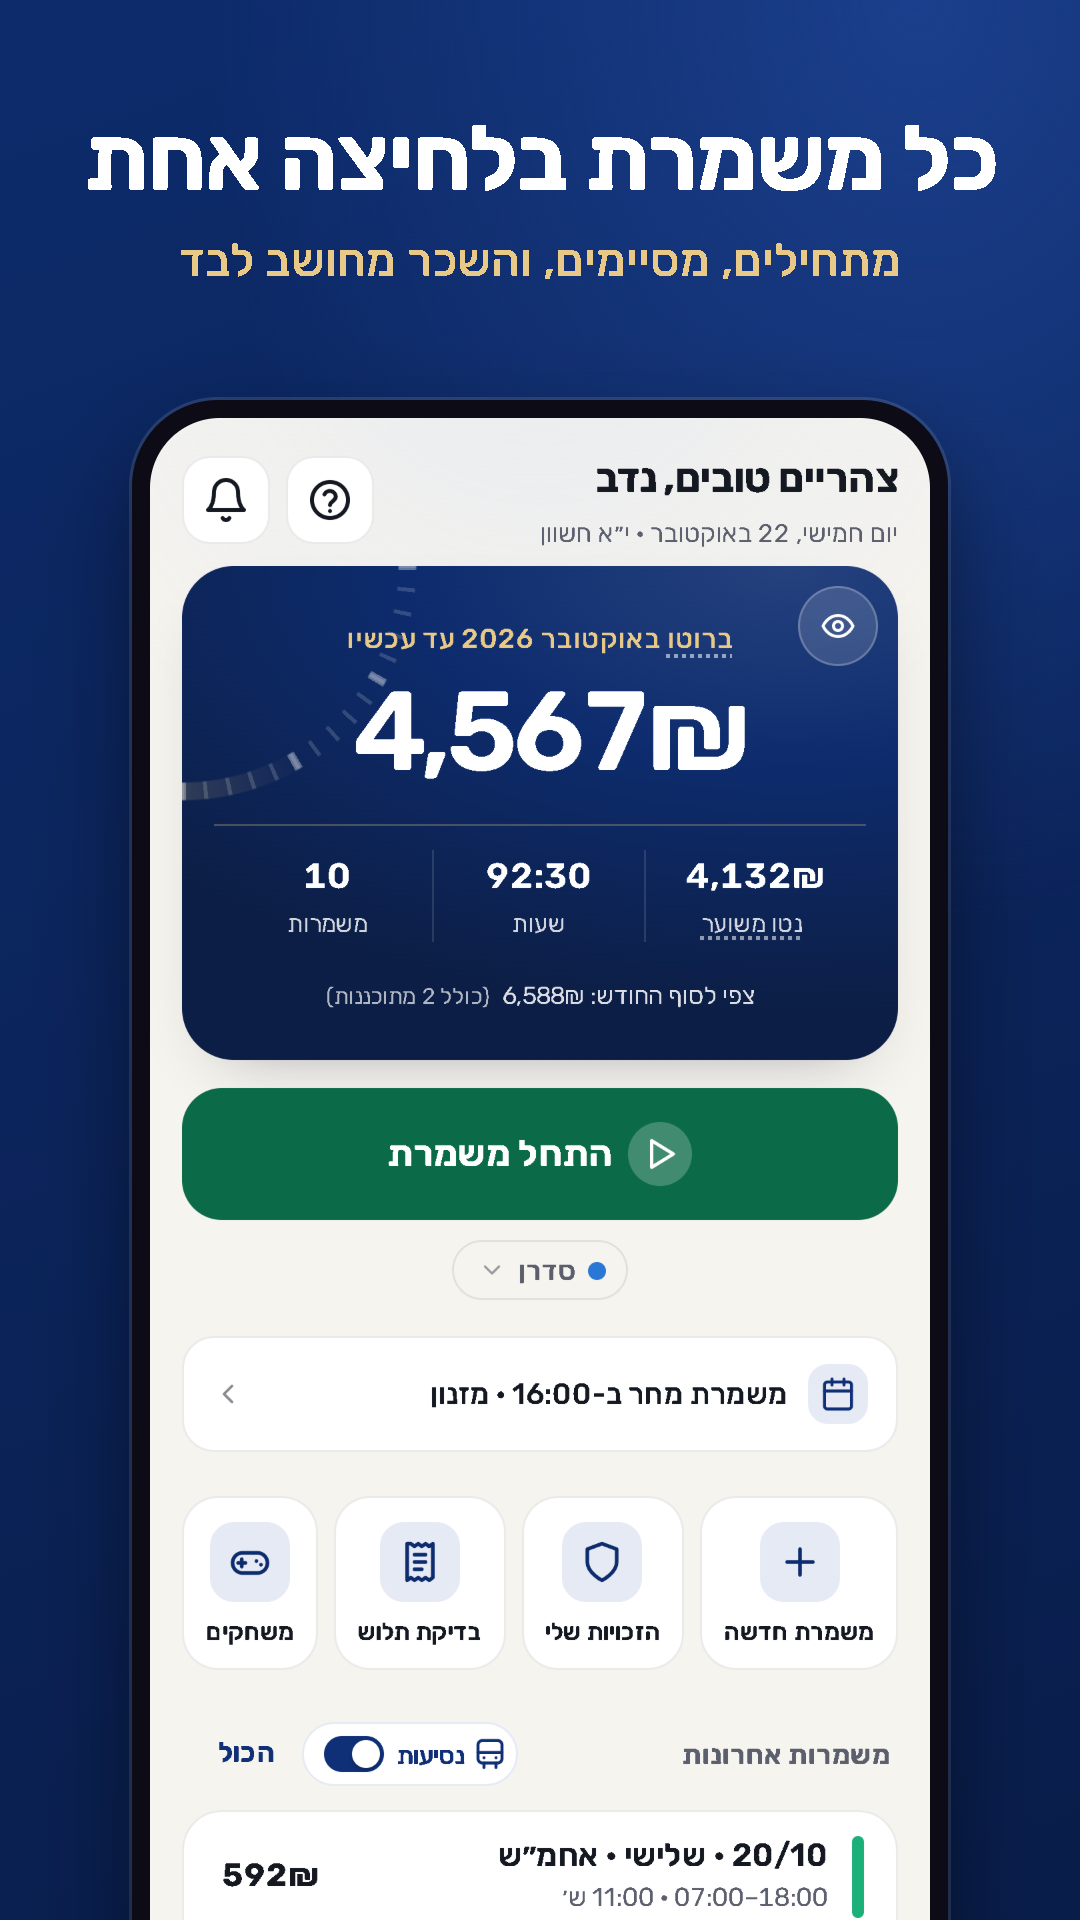
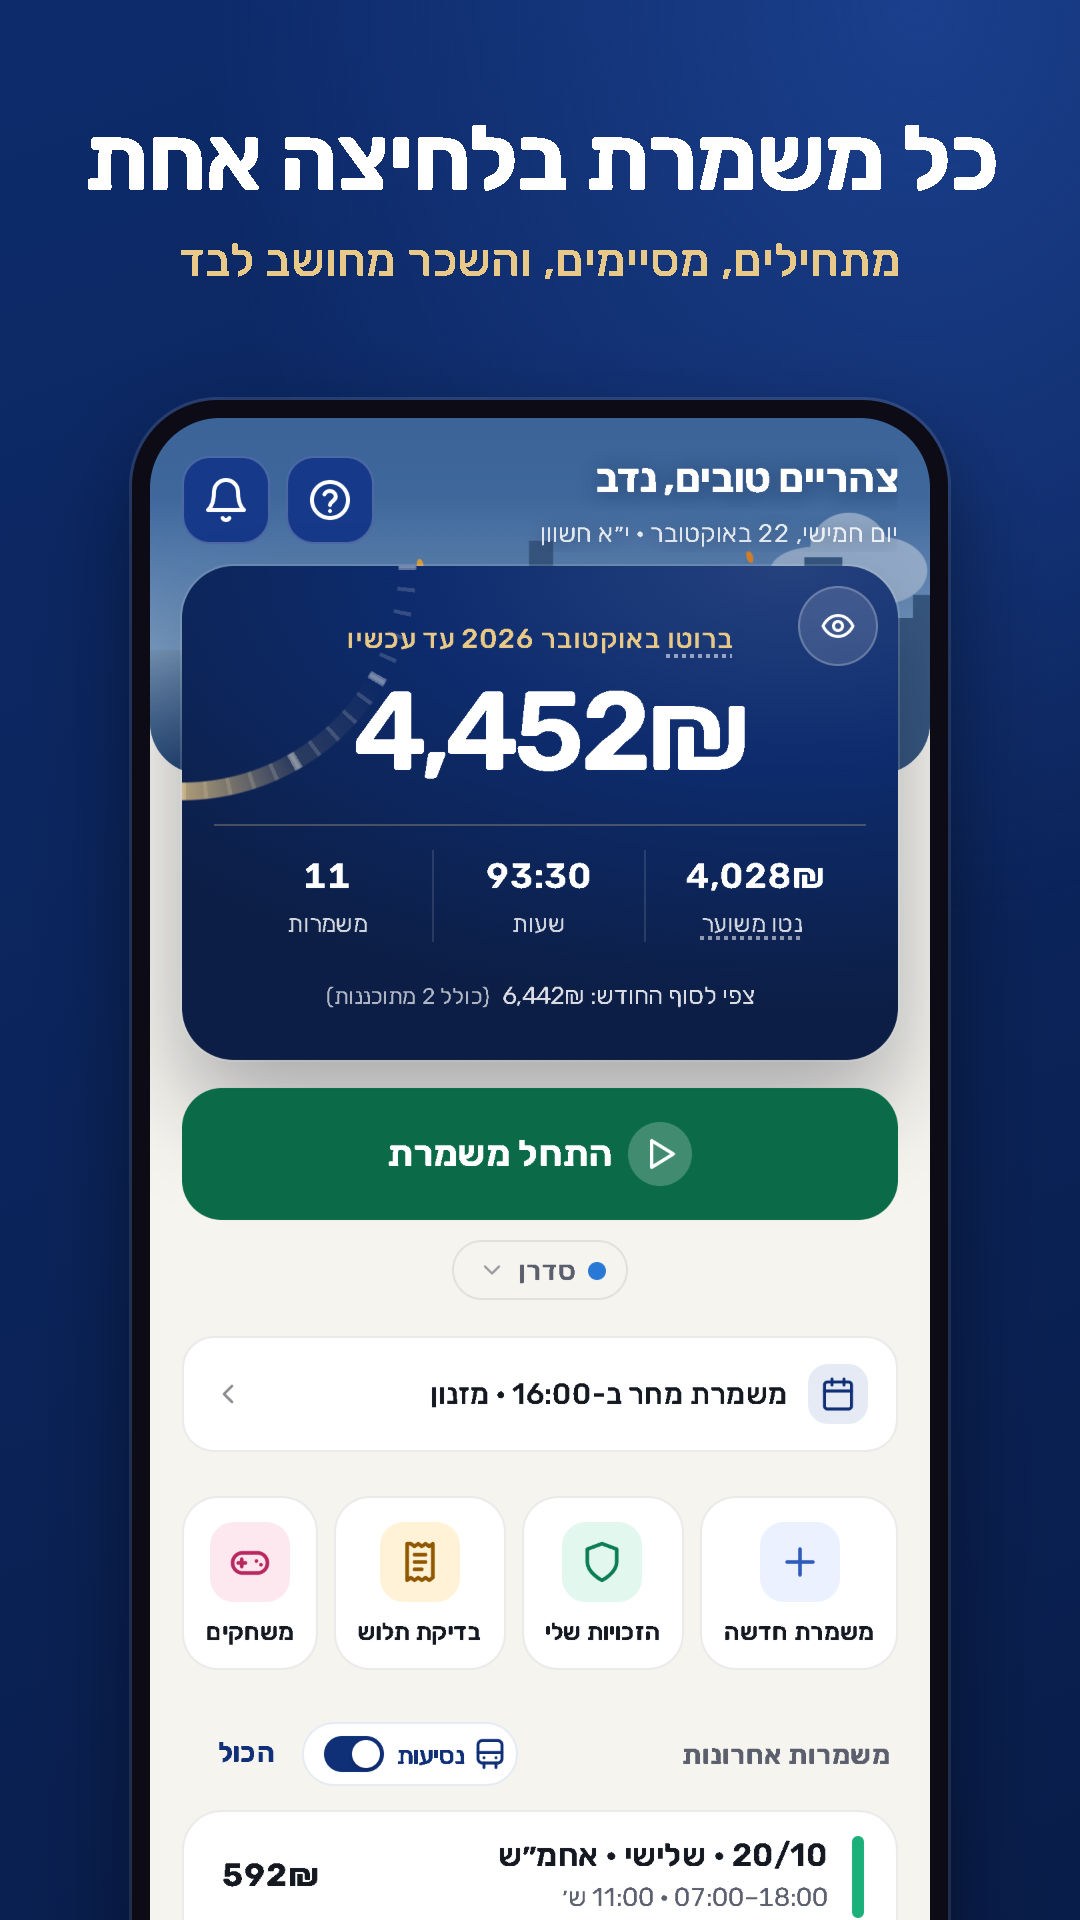
The status bar follows what is under it: the home screen's sky while it is in view (its top colour), the page once scrolled past it or on another tab (a beige bar sat above the night sky); dark-mode bar #0e1118 (the v4 surface); the manifest's theme colour navy (it was the old petrol); qa/statusbar-

diff --git a/src/app/app.js b/src/app/app.js
@@ -89,11 +89,19 @@
       if (font === 'rubik') link.removeAttribute('href'); else link.href = App.fontCss(font);
       link.dataset.font = font;
     }
-    const dark = st.theme === 'dark' || (st.theme !== 'light' && matchMedia('(prefers-color-scheme: dark)').matches);
-    const meta = document.querySelector('meta[name="theme-color"]');
-    if (meta) meta.content = document.getElementById('intro') ? '#0d2b6b' : dark ? '#0f1413' : '#f6f4ee';
+    App.statusBar();
     if (root.Fx) root.Fx.apply();
     if (roomChanged && root.Dom && root.Dom.fitAll) root.Dom.fitAll();
+  };
+  /** The phone's status bar takes the colour of what is under it: the opening's navy, the home screen's sky while it is
+   * in view (its top colour, set by App.homeSky), otherwise the page (a beige bar sat above the night sky). */
+  App.statusBar = function () {
+    const meta = document.querySelector('meta[name="theme-color"]');
+    if (!meta) return;
+    const st = S.settings || {};
+    const dark = st.theme === 'dark' || (st.theme !== 'light' && matchMedia('(prefers-color-scheme: dark)').matches);
+    const c = document.getElementById('intro') ? '#0d2b6b' : App.tab === 'home' && !App.blocking && App.skyTop && App.skyInView !== false ? App.skyTop : dark ? '#0e1118' : '#f6f4ee';
+    if (meta.content !== c) meta.content = c;
   };
   matchMedia('(prefers-color-scheme: dark)').addEventListener('change', () => App.applyTheme());
 
@@ -250,6 +258,7 @@
     if (same) root.Dom.patch(inner, html);
     else v.innerHTML = `<div class="view ${cls}" id="view-inner">${html}</div>`;
     try { if (App.views[App.tab + '_mount']) App.views[App.tab + '_mount'](v); } catch (e) { console.error('mount failed', App.tab, e); }
+    App.statusBar();
     App.renderNav();
     if (opts && opts.keepScroll) window.scrollTo(0, y);
     App.tickTimer();

diff --git a/src/app/views-home.js b/src/app/views-home.js
@@ -341,8 +341,18 @@
     }
     const p = Sky.prefs(), key = [w, Math.round(h / 12), p.place && p.place.name, Sky.weatherNow(p)].join('|');
     if (svg.dataset.key === key && Date.now() - (+svg.dataset.at || 0) < 600000) return;
-    try { host.dataset.phase = Sky.render(svg, { now: Date.now(), place: p.place, weather: Sky.weatherNow(p), width: w, height: h }).phase; } catch (e) { console.warn('sky', e); return; }
+    try {
+      const out = Sky.render(svg, { now: Date.now(), place: p.place, weather: Sky.weatherNow(p), width: w, height: h });
+      host.dataset.phase = out.phase;
+      App.skyTop = out.top;
+    } catch (e) { console.warn('sky', e); return; }
     svg.dataset.key = key; svg.dataset.at = String(Date.now());
+    // the status bar follows the sky while it is on the screen (App.statusBar)
+    if (!host.__io && 'IntersectionObserver' in window) {
+      host.__io = new IntersectionObserver(([e]) => { App.skyInView = e.isIntersecting; App.statusBar(); }, { rootMargin: '-24px 0px 0px 0px' });
+      host.__io.observe(host);
+    }
+    App.statusBar();
   };
 
   App.views.home = function () {

diff --git a/src/app/sky.js b/src/app/sky.js
@@ -269,7 +269,7 @@
       for (let i = 0; i < 3; i++) g.appendChild(el('ellipse', { class: 'sk-leaf', cx: (r() * W).toFixed(1), cy: -10, rx: 3, ry: 1.6, fill: ['#d9822b', '#c4562d', '#e0a43a'][i], style: `--d:${(-r() * 14).toFixed(1)}s;--t:${(10 + r() * 6).toFixed(1)}s;--x:${(-30 - r() * 40).toFixed(0)}px` }));
       svg.appendChild(g);
     }
-    return { phase, season, weather, kind };
+    return { phase, season, weather, kind, top: sky[0] };
   }
 
   // Open-Meteo's weather codes (WMO) to the scene's weather
